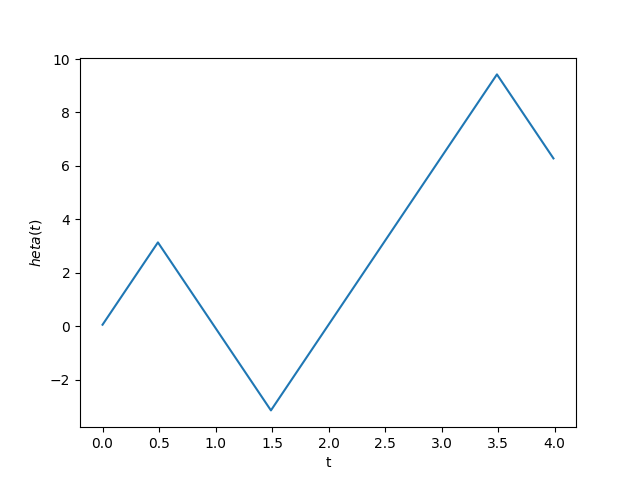
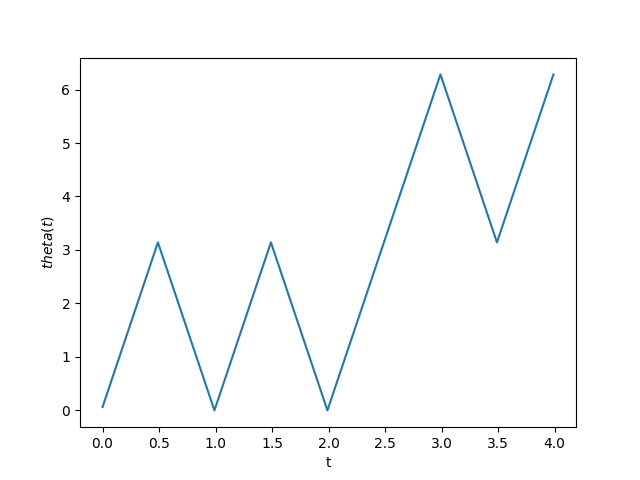
saving

diff --git a/ch2_demo_scripts.py b/ch2_demo_scripts.py
@@ -401,7 +401,7 @@ def cpfsk():
     plt.clf()
     plt.plot(t,theta)
     plt.xlabel('t')
-    plt.ylabel('$\theta(t)$')
+    plt.ylabel('$theta(t)$')
     plt.savefig('Ch2_images/cpfsk_im2')
 
     plt.figure(2)
